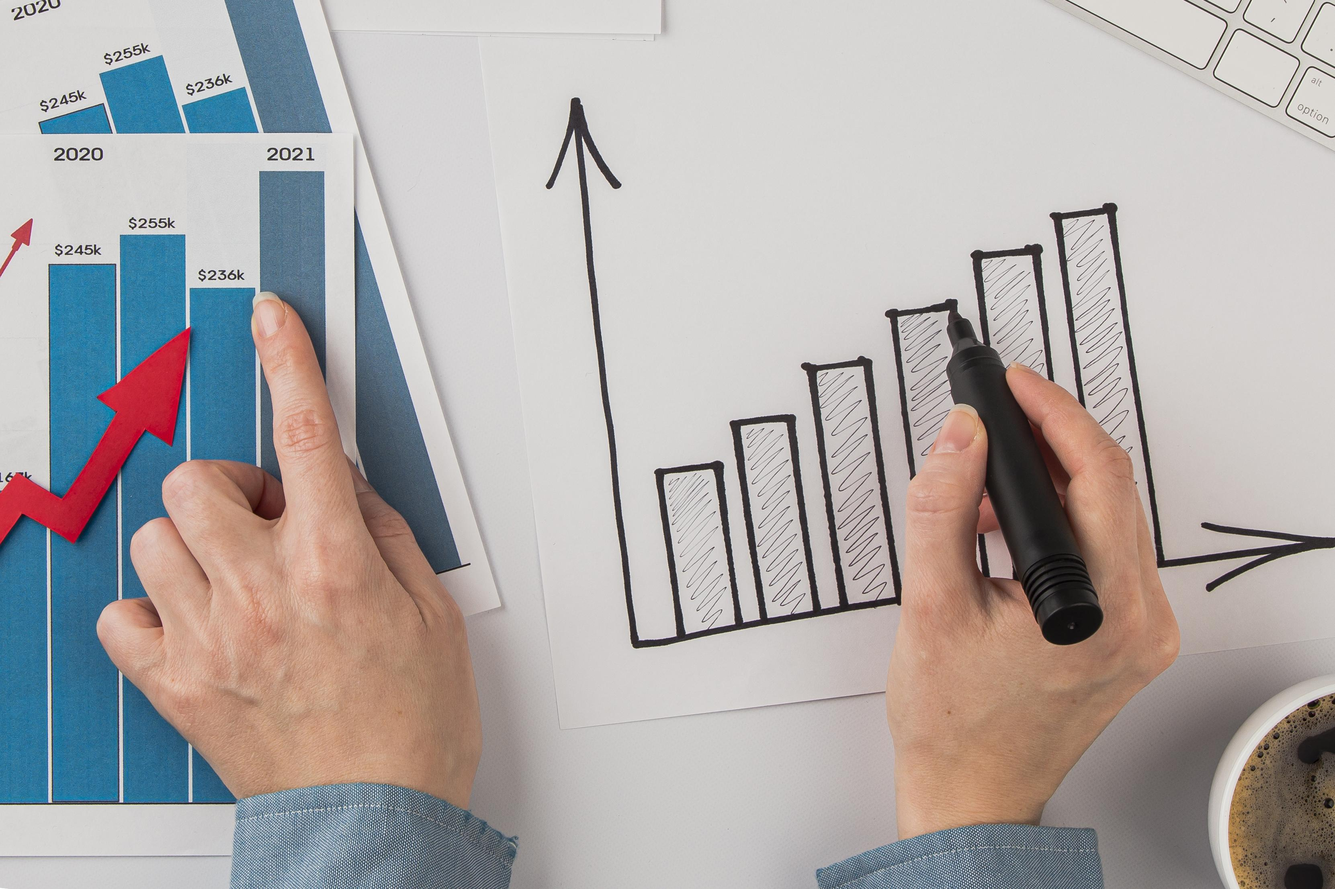
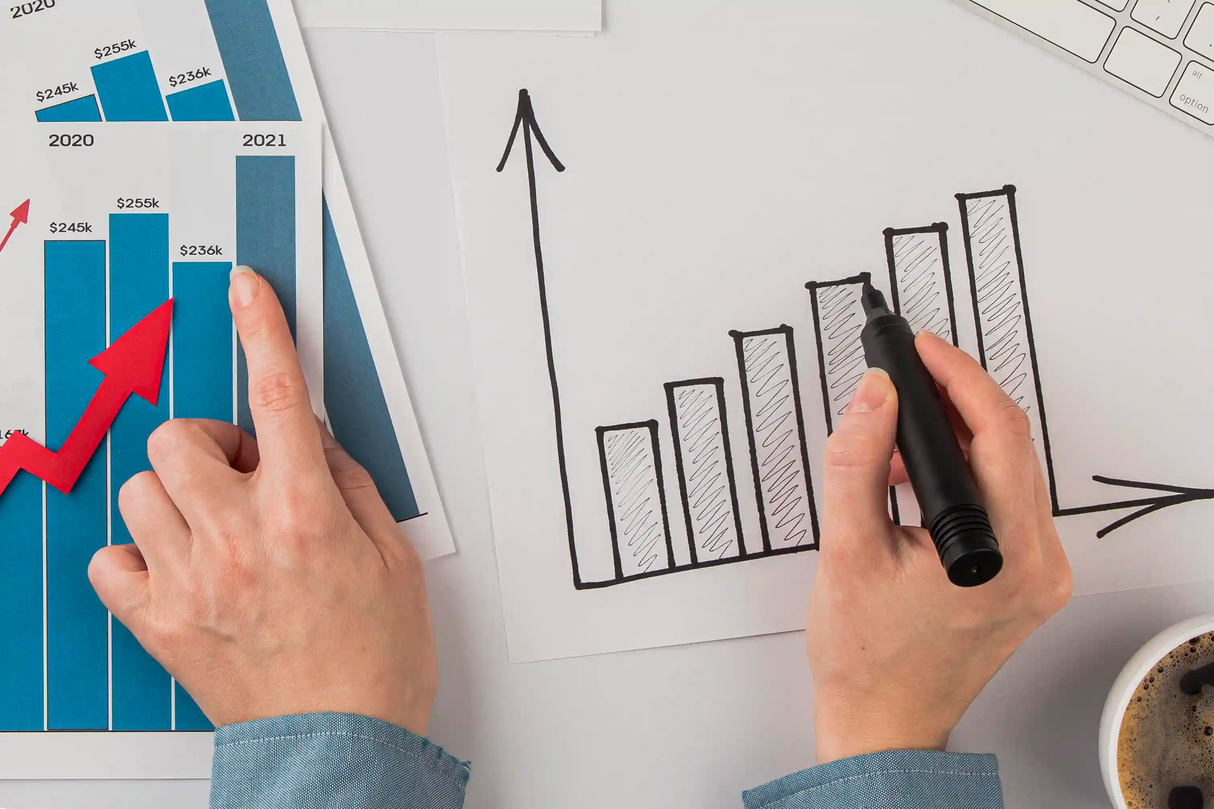
Images size reduce

diff --git a/src/App.js b/src/App.js
@@ -14,7 +14,6 @@ import HalahiCaseStudy from "./Pages/Portfolio/CaseStudy/HalahiCaseStudy";
 import UmileCaseStudy from "./Pages/Portfolio/CaseStudy/UmileCaseStudy";
 import RRFCaseStudy from "./Pages/Portfolio/CaseStudy/RRFCaseStudy";
 import FoodleCaseStudy from "./Pages/Portfolio/CaseStudy/FoodleCaseStudy";
-// import OutSourceNzCaseStudy from "./Pages/Portfolio/CaseStudy/OutsourceNzCaseStudy.jsx";
 import BharteeCaseStudy from "./Pages/Portfolio/CaseStudy/BharteeCaseStudy";
 import KorneezCaseStudy from "./Pages/Portfolio/CaseStudy/KorneezCaseStudy.jsx";
 import AgileDevelopment from "./Pages/Blog/Agile_Development";

diff --git a/src/Pages/Blog/Software_Testing.jsx b/src/Pages/Blog/Software_Testing.jsx
@@ -1,3 +1,4 @@
+/* eslint-disable jsx-a11y/img-redundant-alt */
 import React from 'react'
 import Navbar from '../../Components/Header/Navbar';
 
@@ -53,7 +54,7 @@ export default function Software_Testing() {
           </div>
           <div class="col-lg-6 col-sm-12 col-md-8" data-aos="fade-left">
             <div class="Blog_Intro_Img Blog_Img Intro_Blog_Img">
-              <img src={require("../images/qa-5 (1).webp")} class="img-fluid"
+              <img src={require("../images/qa-5.webp")} class="img-fluid"
                 alt="Software Testing Image" />
             </div>
           </div>

diff --git a/src/Pages/Blog/Blog.jsx b/src/Pages/Blog/Blog.jsx
@@ -8,6 +8,7 @@ function Blog() {
   return (
     <div>
         <Navbar/>
+        
       {/* Hero Section * */}
       <div data-delay="3000" data-animation="slide" id="Blog_BgImg" data-autoplay="true" data-easing="ease"
         data-hide-arrows="false" data-disable-swipe="false" data-autoplay-limit="0" data-nav-spacing="5"
